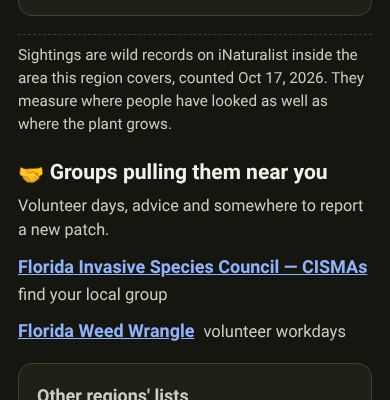
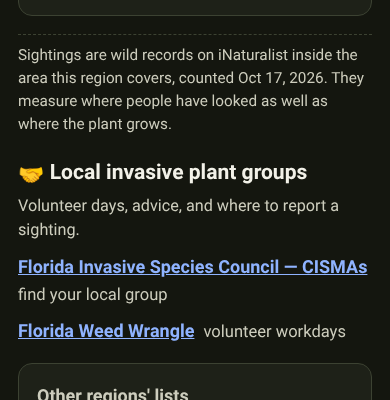
Name the section plainly: Local invasive plant groups
Claude-Session: https://claude.ai/code/session_01Qn3CMWe2HdXJ1KkbWG8aCD

Changed region(s): [[0.1231, 0.39, 0.9231, 0.54], [0.0308, 0.54, 0.2769, 0.6]]

diff --git a/app/src/locales/fr.ts b/app/src/locales/fr.ts
@@ -2696,8 +2696,8 @@ export const fr: Dict = {
   // Ce que chaque émoji veut dire *ici*, lu par un lecteur d'écran à la place
   // de son nom Unicode. Voir lib/emoji.ts.
   "emoji.groups": "associations de plantes indigènes",
-  "groups.title": "Les groupes qui les arrachent près de chez vous",
-  "groups.lede": "Chantiers bénévoles, conseils, et où signaler une nouvelle tache.",
+  "groups.title": "Groupes locaux sur les plantes envahissantes",
+  "groups.lede": "Chantiers bénévoles, conseils, et où signaler une observation.",
   "groups.what.finder": "trouver le groupe local",
   "groups.what.workdays": "chantiers bénévoles",
   "groups.what.training": "formations et bénévolat",

diff --git a/app/src/locales/en.ts b/app/src/locales/en.ts
@@ -2761,8 +2761,8 @@ export const en = {
   // The last section on a region page: who else already knows this flora.
   // The "what they do" phrases are shared — four societies running chapters
   // share one string to write and one to translate.
-  "groups.title": "Groups pulling them near you",
-  "groups.lede": "Volunteer days, advice and somewhere to report a new patch.",
+  "groups.title": "Local invasive plant groups",
+  "groups.lede": "Volunteer days, advice, and where to report a sighting.",
   "groups.what.finder": "find your local group",
   "groups.what.workdays": "volunteer workdays",
   "groups.what.training": "training and volunteering",

diff --git a/app/src/components/invasive-groups-section.ts b/app/src/components/invasive-groups-section.ts
@@ -1,4 +1,4 @@
-// "Who's pulling them near you" — under a region's list of invasives, the
+// "Local invasive plant groups" — under a region's list of invasives, the
 // partnerships a reader can join, ask or report to. Same shape as the native
 // plant groups on the region page (`societies-section.ts`): links off the site,
 // so a plain title and a new tab, and nothing at all where we have none.

diff --git a/app/src/data/invasive-groups.ts b/app/src/data/invasive-groups.ts
@@ -1,4 +1,4 @@
-// Who's pulling them near you — the people to join once a region's list has
+// Local invasive plant groups — the people to join once a region's list has
 // said what to pull.
 //
 // The removal advice says the same thing everywhere: on ground that isn't
